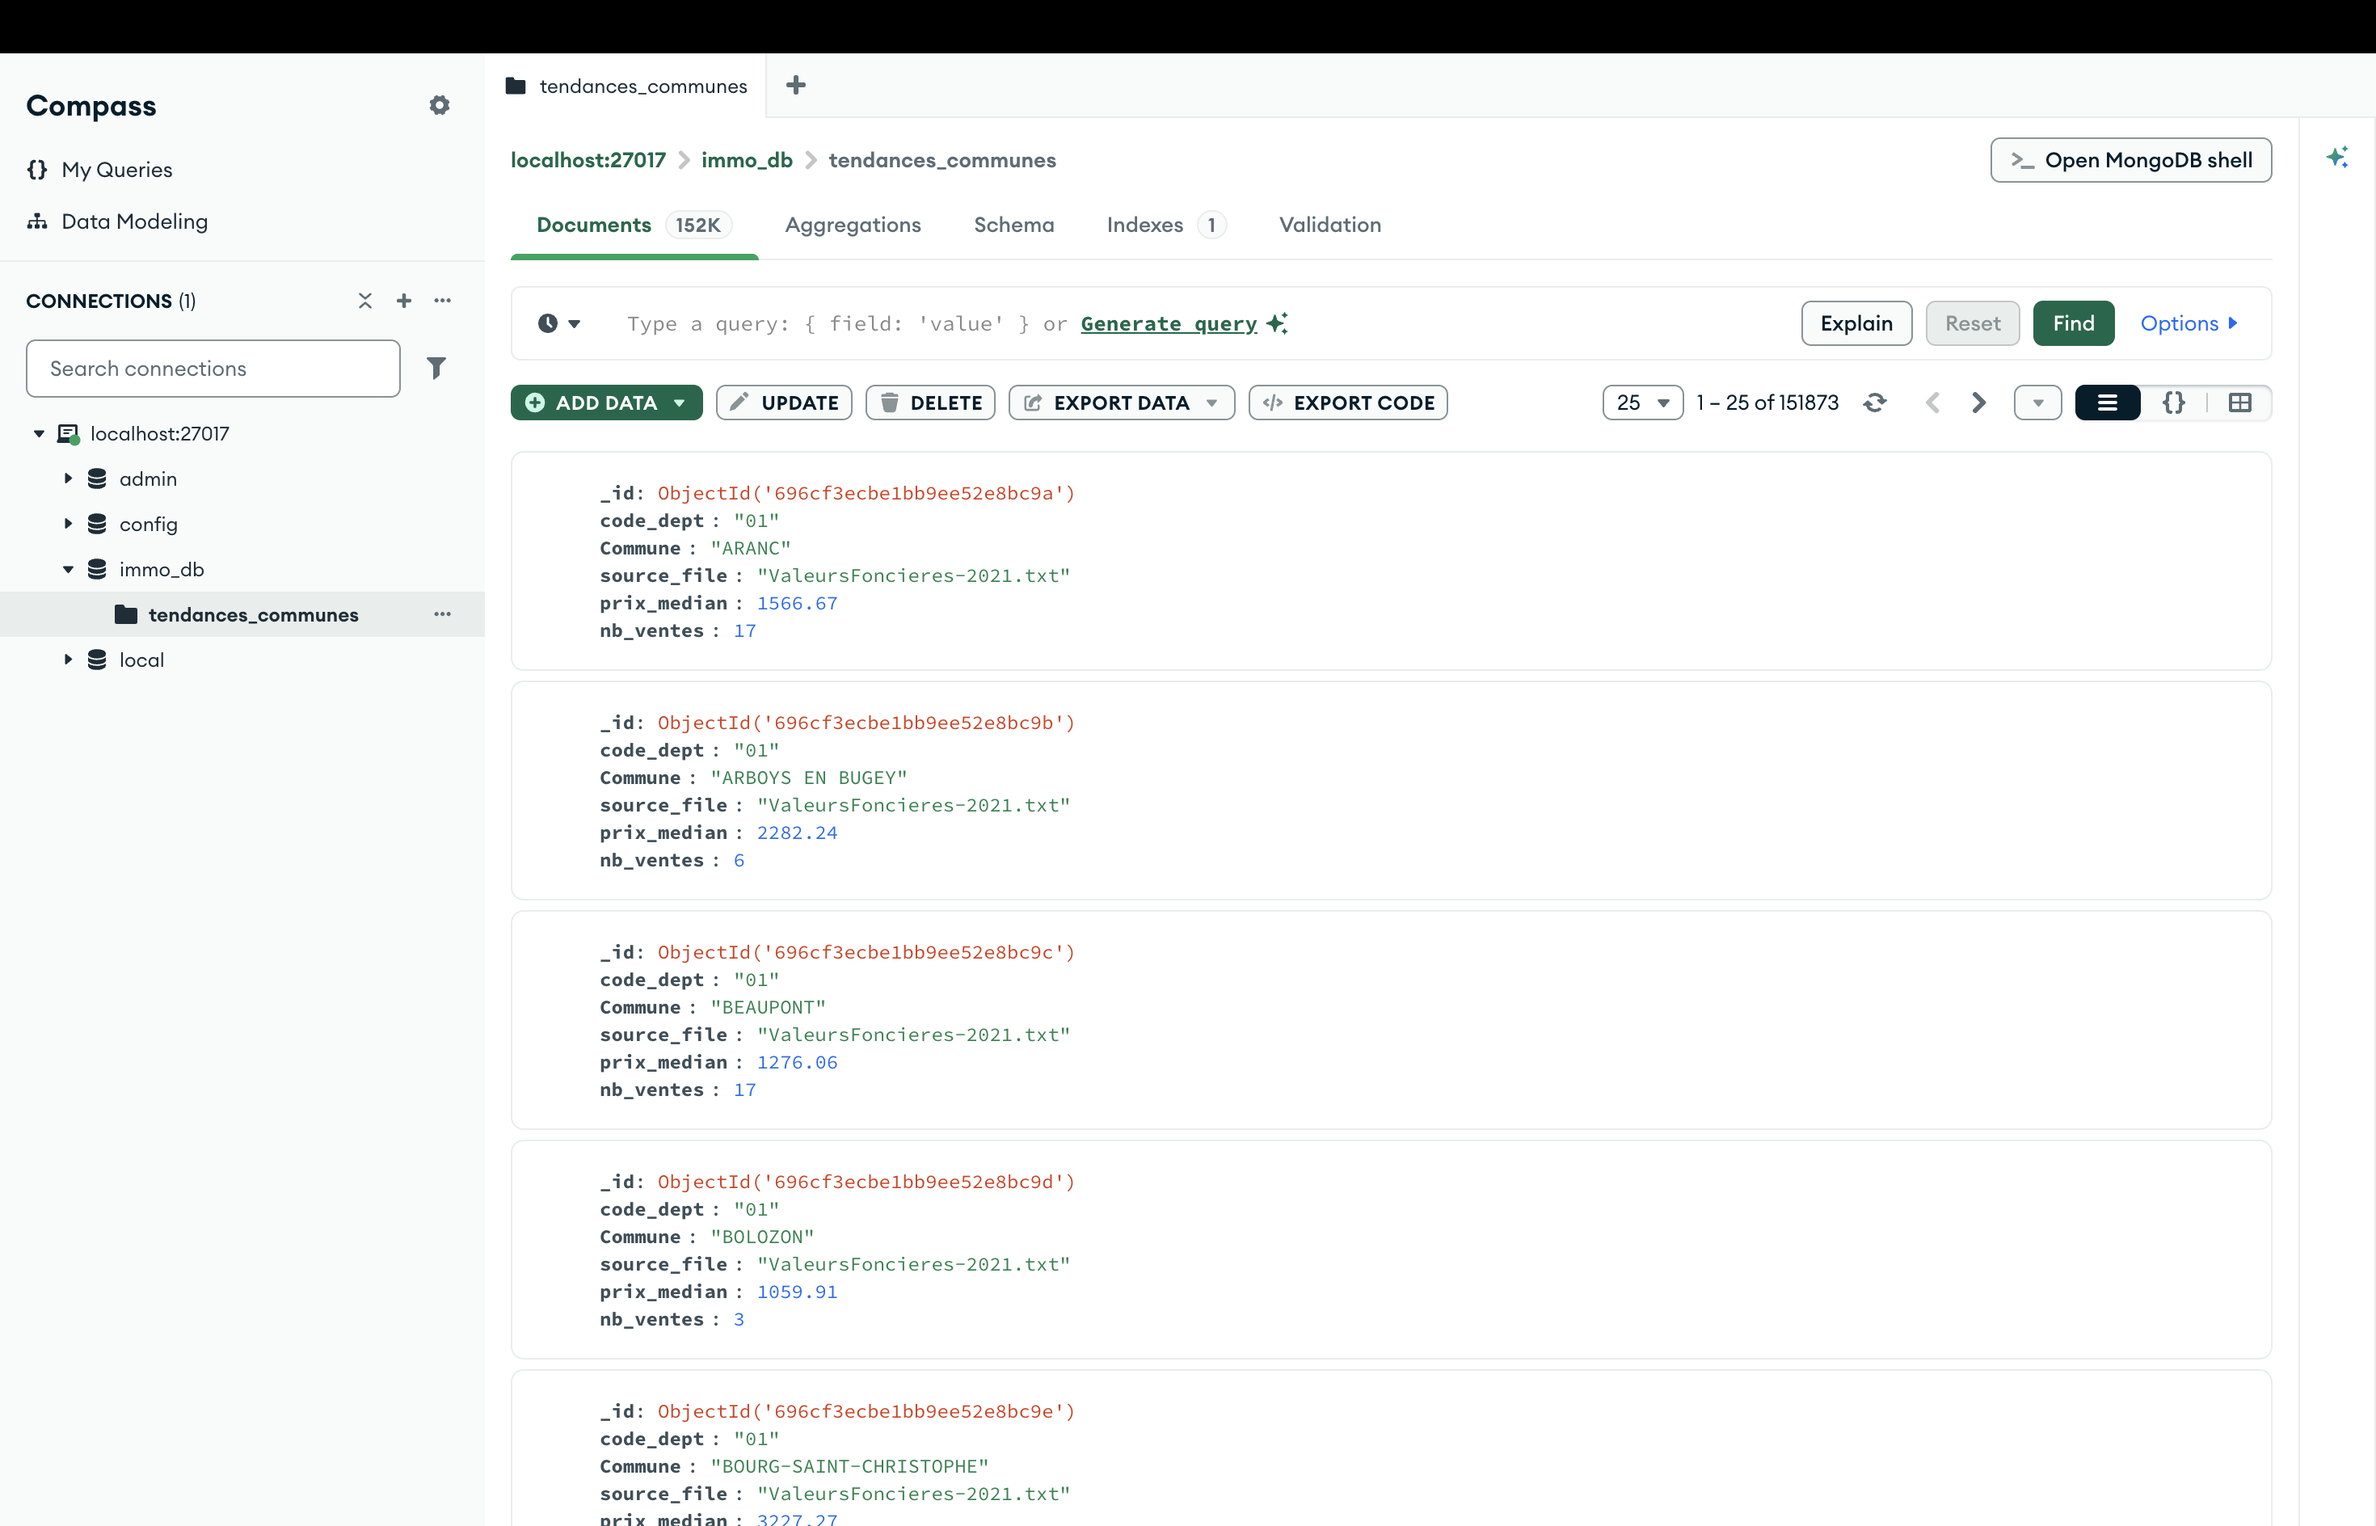
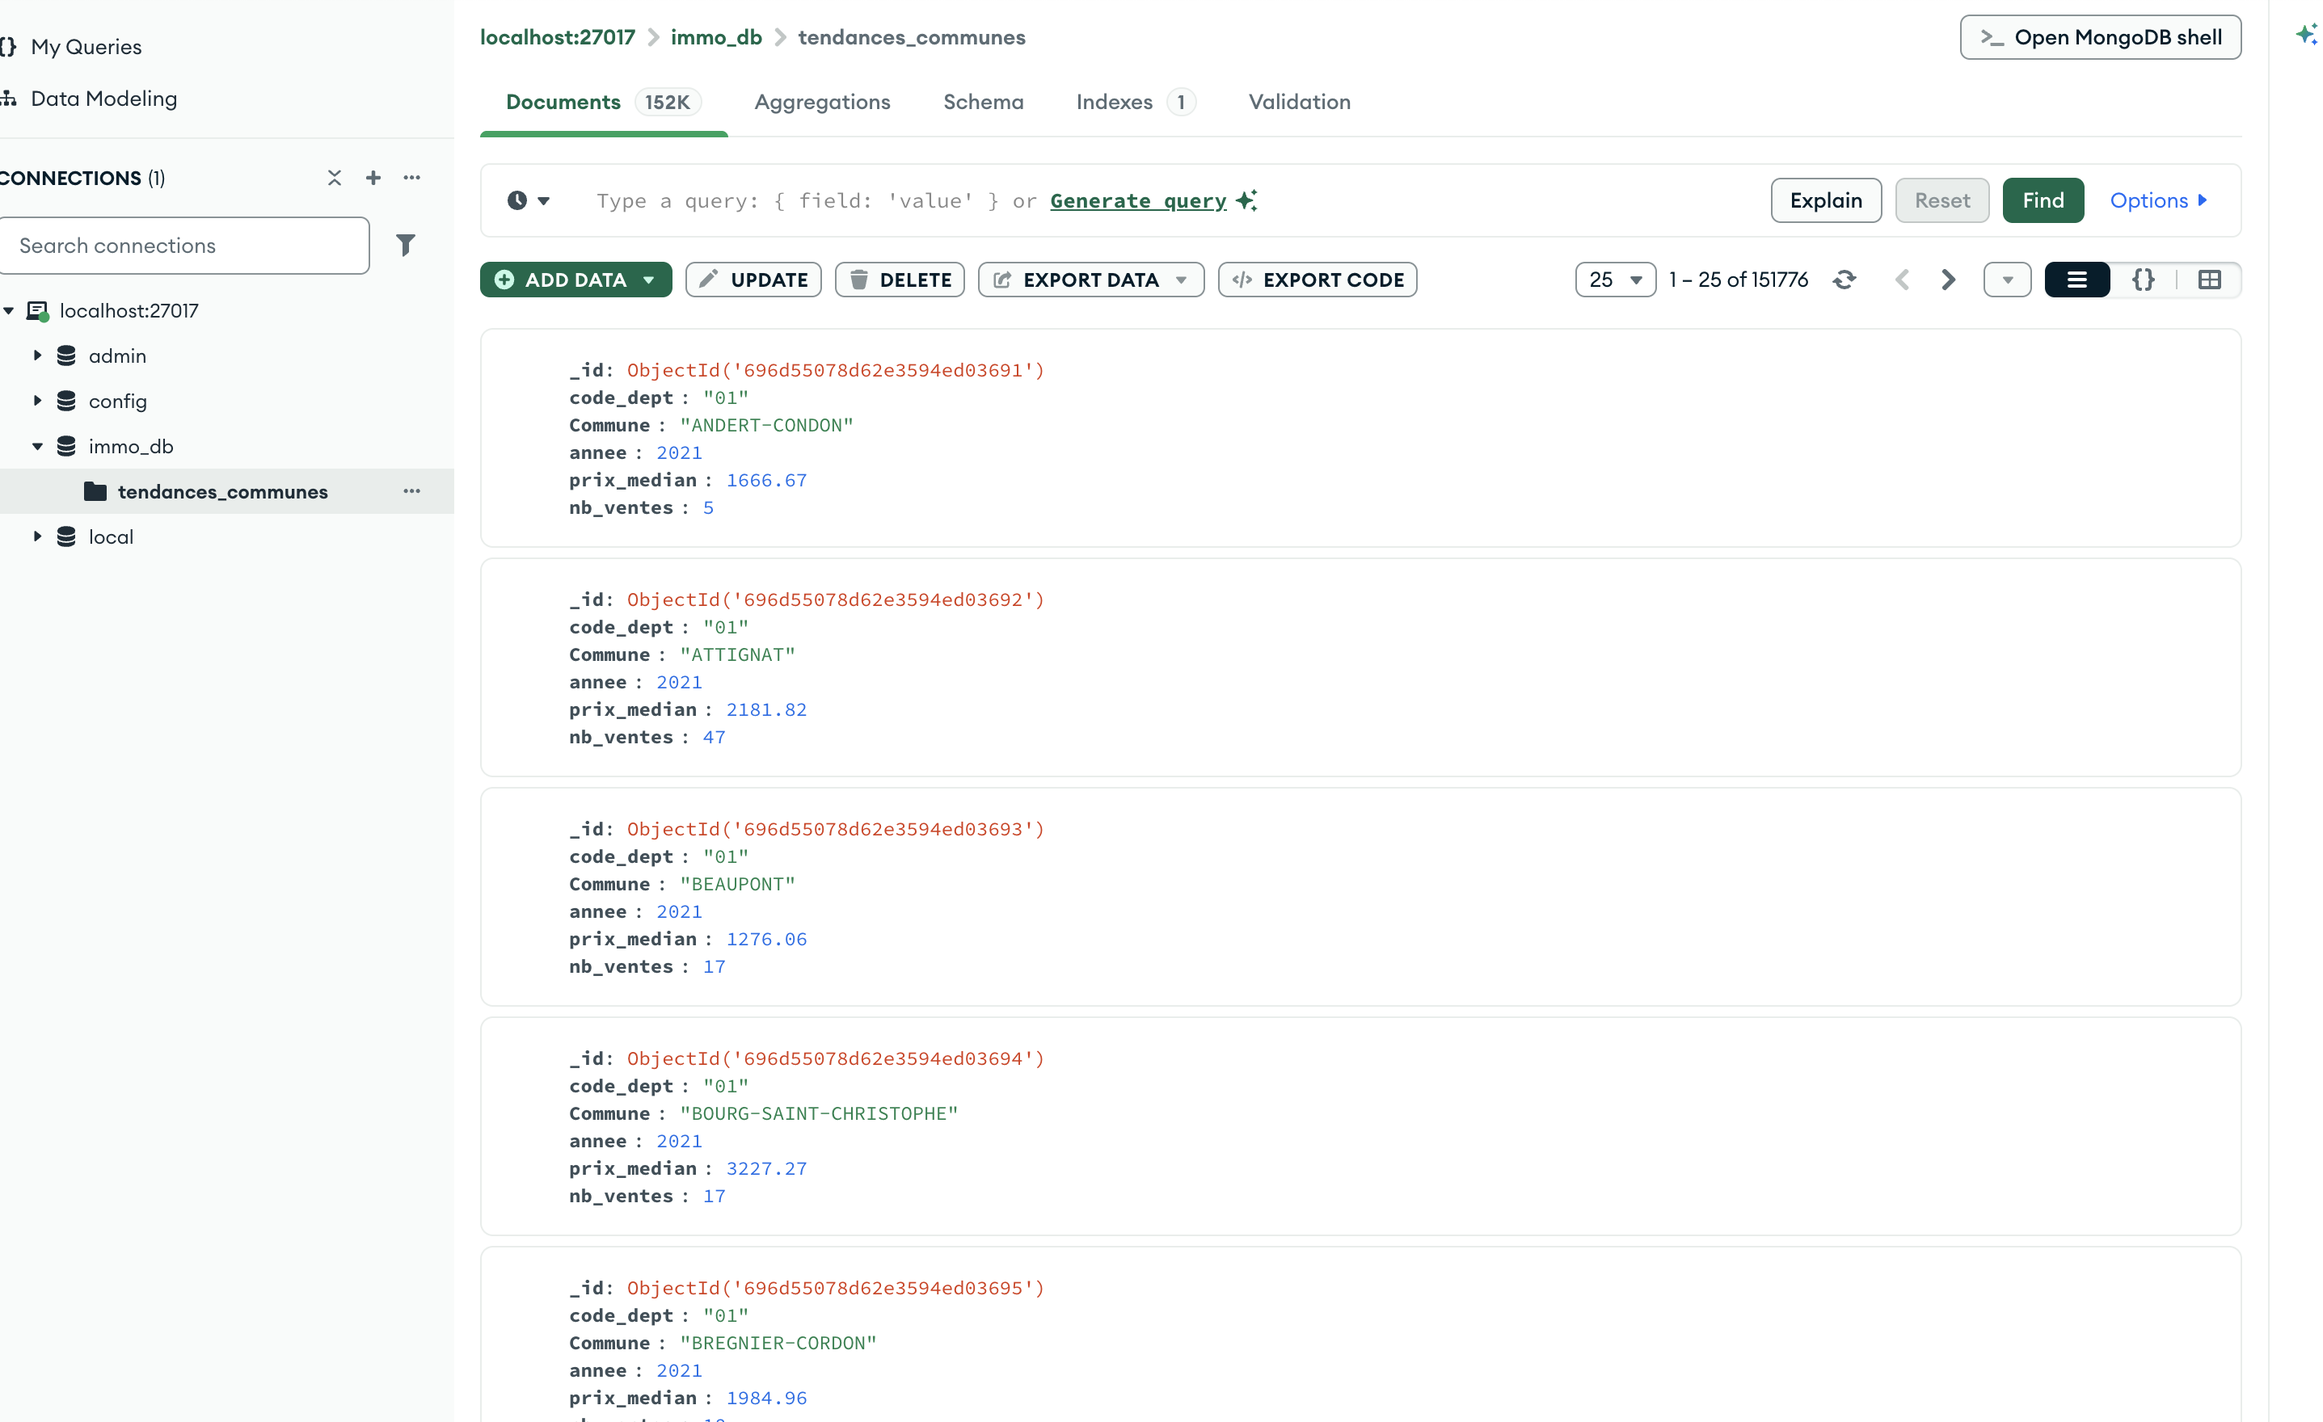
maj du code

diff --git a/app.py b/app.py
@@ -4,53 +4,95 @@ import pymongo
 import plotly.express as px
 
 # Configuration de la page
-st.set_page_config(page_title="Analyse Immo Spark", layout="wide")
+st.set_page_config(page_title="Analyse Évolution Immo", layout="wide")
 
-st.title("📊 Analyse du Marché Immobilier (OpenData)")
-st.markdown("Données traitées avec **PySpark** et stockées sur **MongoDB**.")
+st.title("📈 Évolution du Marché Immobilier (2020-2024)")
+st.markdown("Comparaison des prix médians au m² calculés via **PySpark**.")
 
 # 1. CONNEXION À MONGODB
-@st.cache_resource # Pour éviter de se reconnecter à chaque clic
+@st.cache_resource
 def get_data():
     client = pymongo.MongoClient("mongodb://localhost:27017/")
     db = client["immo_db"]
     collection = db["tendances_communes"]
-    # On récupère tout et on transforme en DataFrame Pandas
-    data = list(collection.find())
+    data = list(collection.find({}, {'_id': 0})) # On exclut l'ID Mongo pour Pandas
     return pd.DataFrame(data)
 
 try:
     df = get_data()
 
-    # 2. FILTRES DANS LA BARRE LATÉRALE
-    st.sidebar.header("Filtres")
+    # Barre latérale pour le choix du département
+    st.sidebar.header("Paramètres")
     depts = sorted(df['code_dept'].unique())
     selected_dept = st.sidebar.selectbox("Choisir un département", depts)
 
-    # Filtrage du DataFrame
-    df_filtered = df[df['code_dept'] == selected_dept]
+    # Filtrage par département
+    df_dept = df[df['code_dept'] == selected_dept]
 
-    # 3. AFFICHAGE DES CHIFFRES CLÉS
-    col1, col2 = st.columns(2)
-    with col1:
-        st.metric("Prix Médian Global", f"{int(df_filtered['prix_median'].mean())} €/m²")
-    with col2:
-        st.metric("Nombre de Communes", len(df_filtered))
+    # --- SECTION 1 : TOP 10 DES PLUS FORTES HAUSSES (2020 vs 2024) ---
+    st.subheader(f"🚀 Top 10 des plus fortes évolutions (2020-2024) - Dept {selected_dept}")
 
-    # 4. GRAPHIQUE INTERACTIF (Plotly)
-    st.subheader(f"Top 15 des communes les plus chères - Dept {selected_dept}")
-    top_10 = df_filtered.sort_values("prix_median", ascending=False).head(15)
+    # On prépare les données pour le calcul
+    # On crée un pivot pour avoir une colonne par année
+    df_pivot = df_dept.pivot_table(index='Commune', columns='annee', values='prix_median')
+
+    # Vérification de la présence des deux années charnières
+    if 2020 in df_pivot.columns and 2024 in df_pivot.columns:
+        # Calcul du % d'évolution
+        df_pivot['evolution'] = ((df_pivot[2024] - df_pivot[2020]) / df_pivot[2020]) * 100
+        
+        # Nettoyage : on garde les communes présentes les deux années et on trie
+        df_evol = df_pivot.dropna(subset=['evolution']).sort_values('evolution', ascending=False).head(10)
+        
+        if not df_evol.empty:
+            fig_evol = px.bar(
+                df_evol.reset_index(), 
+                x='Commune', 
+                y='evolution',
+                color='evolution',
+                labels={'evolution': 'Hausse (%)'},
+                color_continuous_scale='Reds',
+                template="plotly_white"
+            )
+            st.plotly_chart(fig_evol, use_container_width=True)
+        else:
+            st.warning("Pas assez de données comparatives pour ce département.")
+    else:
+        st.info("Les données de 2020 ou 2024 sont manquantes pour ce département dans la base.")
+
+    st.divider()
+
+    # --- SECTION 2 : ANALYSE DÉTAILLÉE PAR VILLE ---
+    st.subheader("🔍 Historique détaillé d'une commune")
     
-    fig = px.bar(top_10, x="Commune", y="prix_median", 
-                 color="prix_median",
-                 labels={'prix_median': 'Prix au m² (€)'},
-                 template="plotly_white")
-    st.plotly_chart(fig, use_container_width=True)
+    # Liste des villes du département
+    villes = sorted(df_dept['Commune'].unique())
+    selected_ville = st.selectbox("Sélectionnez une ville pour voir sa tendance", villes)
 
-    # 5. TABLEAU DES DONNÉES
-    st.subheader("Détail des données")
-    st.dataframe(df_filtered[['code_dept', 'Commune', 'prix_median', 'nb_ventes']], use_container_width=True)
+    # Filtrage pour la ville choisie
+    df_ville = df_dept[df_dept['Commune'] == selected_ville].sort_values('annee')
+
+    col_chart, col_data = st.columns([2, 1])
+
+    with col_chart:
+        if len(df_ville) > 1:
+            fig_line = px.line(
+                df_ville, 
+                x='annee', 
+                y='prix_median', 
+                markers=True,
+                title=f"Tendance du prix au m² à {selected_ville}",
+                labels={'prix_median': 'Prix (€/m²)', 'annee': 'Année'},
+                template="plotly_white"
+            )
+            st.plotly_chart(fig_line, use_container_width=True)
+        else:
+            st.info("Données insuffisantes pour tracer une courbe historique (besoin d'au moins 2 ans).")
+
+    with col_data:
+        st.write("Données brutes")
+        st.dataframe(df_ville[['annee', 'prix_median', 'nb_ventes']].set_index('annee'), use_container_width=True)
 
 except Exception as e:
-    st.error(f"Impossible de se connecter à MongoDB : {e}")
-    st.info("Assurez-vous que MongoDB est lancé et que le script Spark a été exécuté.")
+    st.error(f"Erreur : {e}")
+    st.info("Assurez-vous que MongoDB tourne et que projet.py a bien inséré les données avec la colonne 'annee'.")

diff --git a/projet.py b/projet.py
@@ -1,53 +1,47 @@
 from pyspark.sql import SparkSession
 from pyspark.sql import functions as F
-from pyspark.sql.types import DoubleType
 import pymongo
-import pandas as pds
+import os
 
-# Objectif : Source (txt) -> PySpark (Nettoyage) -> HDFS/Mongo (Stockage) -> Streamlit (Visualisation).
-
-# 1. INITIALISATION (Corrigée pour MongoDB)
+# 1. INITIALISATION
 spark = SparkSession.builder \
-    .appName("AnalyseImmobilier") \
+    .appName("AnalyseImmobilierEvolution") \
     .getOrCreate()
-    #.config("spark.jars.packages", "org.mongodb.spark:mongo-spark-connector_2.12:10.1.1") \
-    #.config("spark.jars.packages", "org.mongodb.spark:mongo-spark-connector_2.12:10.4.0") \
 
 def processus_etl(chemin_txt):
-    # IMPORT : Ajout du decimal=',' pour les prix français
+    # IMPORT
     df = spark.read.options(header='true', sep='|', encoding='ISO-8859-1', decimal=',').csv(chemin_txt)
     
-    # Traçabilité
-    df = df.withColumn("source_file", F.element_at(F.split(F.input_file_name(), "/"), -1))
-
-    # NETTOYAGE : On garde des noms propres dès le début
-    # On remplace la virgule par un point AVANT de caster en double
-    df_clean = df.withColumn("valeur_fonciere", 
+    # NETTOYAGE ET EXTRACTION DE L'ANNÉE
+    # On normalise la commune et on extrait l'année de la date de mutation
+    df_clean = df.withColumn("Commune", F.upper(F.trim(F.col("Commune")))) \
+                 .withColumn("valeur_fonciere", 
                              F.regexp_replace(F.col("Valeur fonciere"), ",", ".").cast("double")) \
                  .withColumn("surface_bati", 
                              F.regexp_replace(F.col("Surface reelle bati"), ",", ".").cast("double")) \
-                 .withColumn("date_mutation", F.to_date(F.col("Date mutation"), "dd/MM/yyyy"))
+                 .withColumn("date_mutation", F.to_date(F.col("Date mutation"), "dd/MM/yyyy")) \
+                 .withColumn("annee", F.year(F.col("date_mutation")))
     
-    # Filtres
+    # FILTRES 
     df_filtered = df_clean.filter(
         (F.col("Nature mutation") == "Vente") &
         (F.col("Type local").isin("Maison", "Appartement")) &
-        (F.col("surface_bati") > 9) &
-        (F.col("valeur_fonciere") > 1000)
+        (F.col("surface_bati") > 15) &
+        (F.col("valeur_fonciere") > 20000) &
+        (F.col("annee").isNotNull()) # Sécurité pour les dates mal formées
     ).dropna(subset=["valeur_fonciere", "surface_bati"])
 
-    # Calcul et Agrégation
+    # CALCUL ET AGRÉGATION PAR ANNÉE
     df_communes = df_filtered.withColumn("prix_m2", F.col("valeur_fonciere") / F.col("surface_bati")) \
-        .filter((F.col("prix_m2") > 500) & (F.col("prix_m2") < 15000)) \
-        .groupBy("Code departement", "Commune", "source_file").agg(
+        .filter((F.col("prix_m2") > 500) & (F.col("prix_m2") < 20000)) \
+        .groupBy("Code departement", "Commune", "annee").agg(
             F.round(F.median("prix_m2"), 2).alias("prix_median"),
             F.count("valeur_fonciere").alias("nb_ventes")
         ).withColumnRenamed("Code departement", "code_dept")
 
-    # STOCKAGE 
+    # STOCKAGE DANS MONGODB
     try:
-        print("📥 Envoi vers MongoDB via PyMongo...")
-        # Transformation en liste pour MongoDB
+        print(f"Envoi vers MongoDB (Année détectée : {df_communes.select('annee').first()[0] if df_communes.count() > 0 else 'N/A'})")
         data_to_insert = df_communes.toPandas().to_dict('records')
         
         client = pymongo.MongoClient("mongodb://localhost:27017/")
@@ -56,24 +50,26 @@ def processus_etl(chemin_txt):
         
         if data_to_insert:
             collection.insert_many(data_to_insert)
-            print("✅ Succès ! Données visibles dans MongoDB Compass.")
+            print("✅ Succès ! Données insérées.")
     except Exception as e:
         print(f"⚠ Erreur de stockage : {e}")
-        # Optionnel : sauvegarde en Parquet si Mongo échoue
-        df_communes.write.mode("overwrite").parquet("./backup_parquet")
 
     return df_communes
 
-# Lancement
-import os
+# --- LANCEMENT ---
 dir_path = os.path.dirname(os.path.realpath(__file__))
 dossier = os.path.join(dir_path, "Data")
 
 if os.path.exists(dossier):
+    # Nettoyage de la base au départ pour éviter les doublons de tests
+    try:
+        pymongo.MongoClient("mongodb://localhost:27017/")["immo_db"]["tendances_communes"].delete_many({})
+        print("🧹 Collection MongoDB vidée pour nouvel import.")
+    except: pass
+
     fichiers = [f for f in os.listdir(dossier) if f.endswith('.txt') and not f.startswith('.')]
     for nom_f in fichiers:
-        chemin = os.path.join(dossier, nom_f)
-        resultat = processus_etl(chemin)
-        resultat.show(5)
+        chemin_complet = os.path.join(dossier, nom_f)
+        processus_etl(chemin_complet).show(5)
 else:
     print(f"❌ Dossier {dossier} introuvable.")
